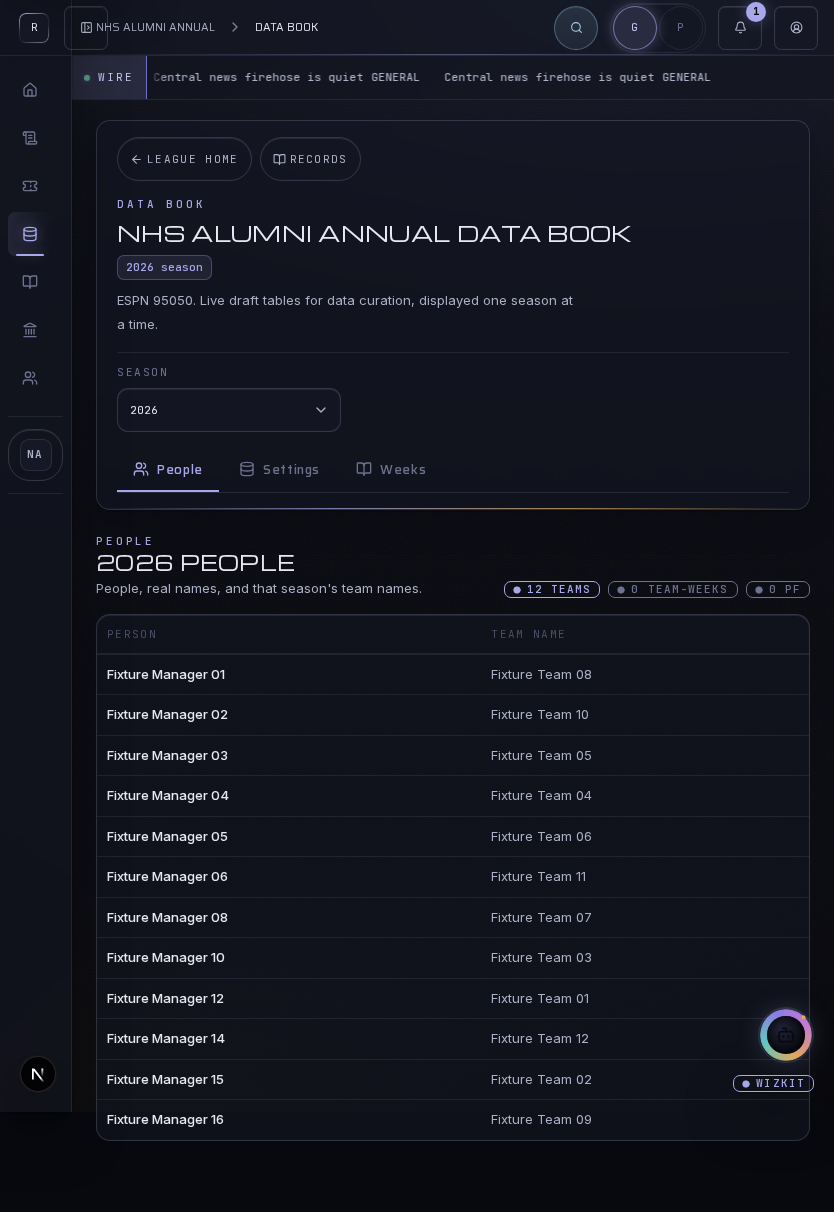
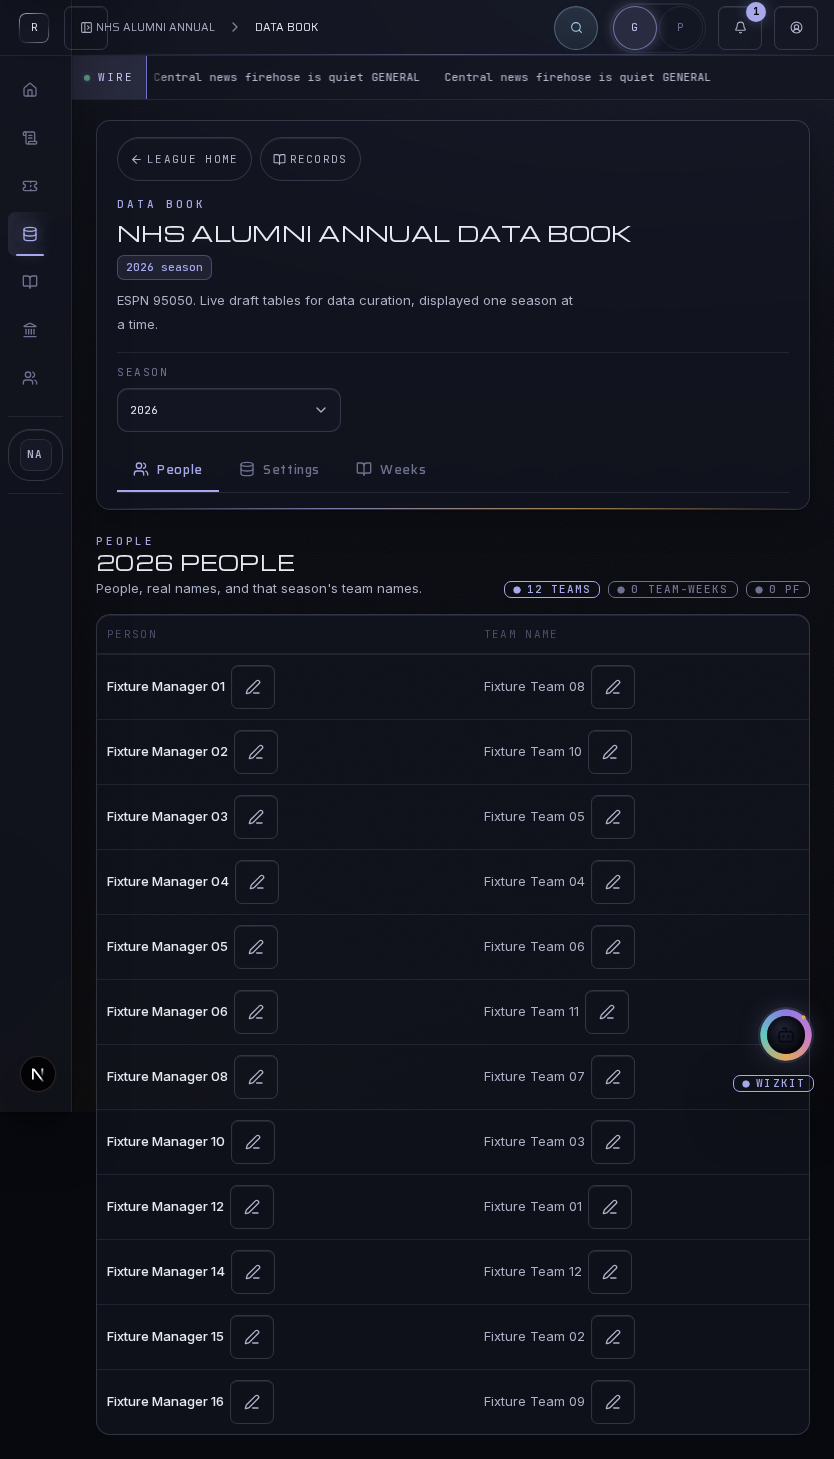
[T6] Document editable Data Book handoff

diff --git a/e2e/screenshots.spec.ts b/e2e/screenshots.spec.ts
@@ -66,19 +66,37 @@ async function shootDataBookScopePrompt(
     /* some pages keep a live connection open; screenshot anyway */
   }
   await page.waitForTimeout(900);
-  await page
-    .locator('button[aria-label^="Edit real name"]')
+  const editButton = page
+    .locator('button[aria-label^="Edit real name"]:visible')
+    .first();
+  await editButton.waitFor({ timeout: 15_000 });
+  const confirmButton = page
+    .locator('button[aria-label^="Confirm real name"]:visible')
+    .first();
+  for (let attempt = 0; attempt < 5; attempt += 1) {
+    await editButton.evaluate((button: HTMLElement) => button.click());
+    try {
+      await confirmButton.waitFor({ timeout: 2_000 });
+      break;
+    } catch {
+      await page.waitForTimeout(500);
+    }
+  }
+  await confirmButton.waitFor({ timeout: 15_000 });
+  const editForm = page
+    .locator("form")
+    .filter({
+      has: page.locator('button[aria-label^="Confirm real name"]:visible'),
+    })
+    .first();
+  await editForm
+    .locator("input")
     .first()
-    .click({ timeout: 15_000 });
+    .fill("Screenshot Steward", { timeout: 15_000 });
+  await confirmButton.evaluate((button: HTMLElement) => button.click());
   await page
-    .getByLabel(/real name for/i)
-    .first()
-    .fill("Screenshot Steward");
-  await page
-    .getByRole("button", { name: /Confirm real name for/i })
-    .first()
-    .click();
-  await page.getByRole("dialog", { name: "Apply data edit" }).waitFor();
+    .getByRole("dialog", { name: "Apply data edit" })
+    .waitFor({ timeout: 15_000 });
 
   const dir = path.join(OUT, vp);
   fs.mkdirSync(dir, { recursive: true });

diff --git a/.orchestration/handoff/T6.md b/.orchestration/handoff/T6.md
@@ -1,0 +1,97 @@
+# T6 Handoff - Editable Data Book Cells + Scope Prompt
+
+## What T6 Built
+- Extended the existing `/leagues/[leagueId]/data` Data Book view; no parallel view or extra destination was added.
+- Added steward-level editable dimension cells:
+  - People grid: `person.canonical_name` real name.
+  - People grid: `team_season.team_name` for the selected season row.
+  - Weeks grid: team name where it appears in the team cell.
+- Added the required scope prompt after inline confirmation:
+  - real name default: `all_years`.
+  - team name default: `this_year_only`.
+  - both are overridable.
+- Submits edits to `POST /api/leagues/[leagueId]/curation/edits` with the selected `scope`; includes `season` only for
+  `this_year_only`.
+- Successful edits update the local Data Book draft state immediately and mark affected editable cells with a small
+  `Draft` pill plus a compact draft notice. They do not save checkpoints, push snapshots, or affect Records.
+- Non-stewards still load the Data Book, but receive no edit buttons or inline edit forms.
+
+## Code Locations
+- Data Book route permission threading:
+  - `src/app/leagues/[leagueId]/data/page.tsx`
+- Data Book read model IDs used by editable cells:
+  - `src/app/leagues/[leagueId]/data/data-book-data.ts`
+- Editable UI + scope dialog:
+  - `src/app/leagues/[leagueId]/data/data-book-view.tsx`
+- Tests:
+  - `src/app/leagues/[leagueId]/data/data-book-view.test.tsx`
+  - `src/app/api/leagues/[leagueId]/curation/edits/route.test.ts`
+  - `src/stats/curated-state.test.ts`
+- Screenshot harness:
+  - `e2e/screenshots.spec.ts`
+
+## Permission Model
+- The page still requires only `minRole: "member"` so members can read the Data Book.
+- `DataBookView` receives `canEditData` from the server page.
+- Current UI edit access is granted to `commissioner`, `league_admin`, and `data_steward`, matching the existing
+  guard ranking where `/curation/edits` requires `minRole: "data_steward"`.
+- The API remains the enforcement boundary.
+
+## UI Flow
+1. Steward clicks a cell edit icon.
+2. The cell becomes an inline input with confirm/cancel icon buttons.
+3. Confirm opens the shared `Dialog` scope prompt.
+4. Steward keeps or changes the `Select` scope, optionally enters a reason, then applies the draft edit.
+5. The local Data Book state updates from the returned `affectedTargetIds` and `scope`.
+
+Shared primitives used: `Button`, `Dialog`, `Field`, `Input`, `Select`, `StatusPill`, and existing `DataTable` /
+`DataCardTable` responsive behavior.
+
+## API Payload Shape
+Real-name all-years default:
+```json
+{
+  "editClass": "cosmetic",
+  "field": "canonical_name",
+  "reason": "Corrected real name from Data Book",
+  "scope": "all_years",
+  "targetId": "<person.id>",
+  "targetKind": "person",
+  "value": "Corrected Name"
+}
+```
+
+Team-name this-year default:
+```json
+{
+  "editClass": "cosmetic",
+  "field": "team_name",
+  "reason": "Corrected team name from Data Book",
+  "scope": "this_year_only",
+  "season": 2026,
+  "targetId": "<team_season.id>",
+  "targetKind": "team_season",
+  "value": "Corrected Team"
+}
+```
+
+## Tests Added
+- Real-name scope prompt defaults to all-years, posts the expected payload, omits `season`, renders the edited value,
+  and shows Draft state.
+- Team-name scope prompt defaults to this-year-only, posts `scope` plus selected `season`, and renders the edit.
+- Team-name override to all-years posts without `season` and updates all affected team seasons locally.
+- Non-steward Data Book renders read-only with no edit affordances.
+- Route test verifies explicit this-year `scope`/`season` reaches `applyCuratedDataEdit`.
+- DB-backed curated-state test verifies ledger `beforeValue` / `afterValue` / `scope` for a scoped Data Book-style edit.
+
+## Screenshot Harness
+- Existing `17-data-book` screenshots still capture the normal route.
+- New `17-data-book-scope-prompt` screenshots open the real-name inline edit and the scope dialog before capture.
+
+## Gotchas For T7/T8
+- T7 should build the ledger/change-log as a separate destination. Do not add the feed to the Data Book.
+- T8 can hook into the same Data Book route for save/push controls, but T6 does not create checkpoints or pushes.
+- Data Book local state is optimistic only after the edit API succeeds. A fresh navigation reloads from draft tables.
+- `DataTable` renders desktop and mobile markup in the DOM during tests; duplicate edit buttons/text are expected.
+- For `person.canonical_name` + `this_year_only`, T4 may split the person and return a new person id in
+  `affectedTargetIds`; T6 updates local rows using both returned person ids and team-season ids.

diff --git a/docs/PROGRESS.md b/docs/PROGRESS.md
@@ -1,14 +1,20 @@
 # Rumbledore v2 — Master State & Handoff
 
 **This is the single source of truth.** Any agent/model/tool continuing this work reads this first.
-Keep it current. Last updated: 2026-06-22 — **Data Foundation complete through T5 on `ws/t5-data-book`**:
-T5 added the read-only Data Book as its own league navigation destination at `/leagues/[leagueId]/data`. The page
-uses the league-feed masthead pattern (`PublicationMasthead` with `TabLinks` at the bottom), a shared AUSPEX `Select`
-season picker, and responsive DataTable/card fallbacks for the three live draft grains: People, per-season Settings
-and summary, and Week-by-week facts including one-sided byes and stored matchup spans. T5 reads the live substrate
-tables (`persons`, `identity_mapping`, `team_season`, `league_season_settings`, `season_statistics`,
-`weekly_statistics`, `fantasy_matchups`) and deliberately does **not** read `composeCanonicalSnapshot`, which remains
-T9's record-book input. Prior T4 state: T4 added the curated-state service/API layer: every save is an append-only
+Keep it current. Last updated: 2026-06-22 — **Data Foundation complete through T6 on `ws/t6-editable-cells`**:
+T6 extended the existing Data Book at `/leagues/[leagueId]/data` with permission-gated editable dimension cells for
+person real names and team-season team names. Steward-level users edit inline, then confirm in a shared AUSPEX scope
+dialog defaulted to all-years for real names and this-year-only for team names; the chosen scope is posted to
+`POST /api/leagues/[leagueId]/curation/edits` with `season` for this-year-only edits. Successful edits update the
+Data Book draft view immediately and mark affected cells as Draft; they still do **not** affect the Record Book until
+future save/push work. Non-stewards see the same Data Book read-only. Prior T5 state: the Data Book is its own league
+navigation destination, uses the league-feed masthead pattern (`PublicationMasthead` with `TabLinks` at the bottom),
+a shared AUSPEX `Select` season picker, and responsive DataTable/card fallbacks for the three live draft grains:
+People, per-season Settings and summary, and Week-by-week facts including one-sided byes and stored matchup spans.
+It reads the live substrate tables (`persons`, `identity_mapping`, `team_season`, `league_season_settings`,
+`season_statistics`, `weekly_statistics`, `fantasy_matchups`) and deliberately does **not** read
+`composeCanonicalSnapshot`, which remains T9's record-book input. Prior T4 state: T4 added the curated-state
+service/API layer: every save is an append-only
 whole-league checkpoint anchored by a
 `league_data_edits` marker; every push is an append-only per-season pushed version; `composeCanonicalSnapshot(leagueId)`
 returns the composition of each season's latest pushed version so pushing 2012 preserves 2011 and every other
@@ -137,15 +143,25 @@ All planned product scope (P0–P5) and the 2026-06-16 audit-hardening Scope are
 - **Data Foundation T5 delivered (2026-06-22):** the Data Book read view now exists as a separate league destination
   (`/leagues/[leagueId]/data`) and shell nav peer. It renders one selected season at a time with a year dropdown and
   in-masthead grain tabs for People, Settings, and Weeks. Tables use AUSPEX DataTable/mobile-card treatment and show
-  plain empty states for clean leagues. T6 owns editable cells and edit-scope prompts on top of this read view.
+  plain empty states for clean leagues. T6 later extended this read view with editable dimension cells and scope
+  prompts.
+- **Data Foundation T6 delivered (2026-06-22):** the Data Book People grid now exposes steward-level inline edits
+  for person real names and team-season team names, and Weeks exposes team-name edits where team names appear. The
+  scope prompt uses the shared Dialog/Field/Input/Select/Button primitives, defaults real names to all-years and team
+  names to this-year-only, always allows override, and calls `/curation/edits` with `scope` plus `season` for
+  this-year-only edits. Successful edits update the draft Data Book state and mark affected cells as Draft; ordinary
+  members see no edit affordance. Ledger before/after/scope remains written by `applyCuratedDataEdit`.
 - **Real & verified:** per-league RLS isolation (binding non-superuser canary), Better Auth, ESPN/Sleeper/Yahoo ingestion (vs the 95050 fixture), stats/records/identity, AI content pipeline, betting engine + rolling-min bankroll + central arena, realtime + push.
 - **Mocked (drop-in keys later):** Anthropic, The Odds API, SportsDataIO, Tavily, Voyage, Browserbase. Real Browserbase cookie-capture is the one un-wired seam (ESPN onboarding runs fixture-backed by default).
 - **Resolved review bugs:** AI near-dup now uses a league/content-type/model-filtered pgvector nearest-neighbor query (`f380946`); postseason and championship stats derive from season settings/finals with low-confidence integrity failures (`dfa85a9`, `cd6cbe2`); Sleeper co-owner overlap no longer merges distinct same-season team slots (`485e467`); invite tokens persist only hashes (`7a92dfa`); bet placement takes the bankroll-week lock before balance checks (`22a4333`).
 - **Hardening pass delivered:** live ingestion calendar cadence, schedule-backed NFL calendar fallback, Anthropic LLM judge gate, lore steward tiebreak constraints, DB role privilege health, PWA league-page cache isolation, transaction/waiver content emitters, records-catalog fixture coverage, and spend-guard fallback coverage are all landed and tested (`0a2f543`, `43a030b`, `4cc4a5b`, `aa80043`, `8cd3b76`, `e208349`, `060aab8`, `e0cf000`).
-- **Next:** T6 can add editable cells and edit-scope prompts to the Data Book read UI, T8 can wire save/push controls
-  to the curation APIs, and T9 can re-point record-book reads to `composeCanonicalSnapshot`.
+- **Next:** T7 can build the separate Edit Ledger / Change Log destination, T8 can wire save/push controls to the
+  curation APIs, and T9 can re-point record-book reads to `composeCanonicalSnapshot`.
 
 ## 8. Recent (loop log; newest first)
+- 2026-06-22: Data Foundation T6 landed — steward-level Data Book dimension cells are editable inline, scope
+  confirmation is defaulted/overridable, edits post to `/curation/edits` with `scope`/`season`, draft cells update
+  immediately, and non-stewards remain read-only.
 - 2026-06-22: Data Foundation T5 landed — `/leagues/[leagueId]/data` now renders the read-only Data Book with
   People, Settings, and Weeks grains, year dropdown season switching, shell navigation, component interaction tests,
   and screenshot harness coverage.

diff --git a/docs/DATA-FOUNDATION-PLAN.md b/docs/DATA-FOUNDATION-PLAN.md
@@ -151,6 +151,13 @@ A task is not "done" until all seven hold:
 - *Goal:* make cells editable (permissioned); the **scope prompt** on dimension edits (smart-defaulted); every edit →
   `league_data_edits` with before/after. No record-book effect yet (saved ≠ pushed).
 - *Tests + screenshots.*
+- *T6 completion note (2026-06-22):* ✅ Completed on `ws/t6-editable-cells` by CoralBridge. Extended the existing
+  Data Book view rather than forking it: People rows now allow steward-level inline edits for `person.canonical_name`
+  and `team_season.team_name`, Weeks exposes team-name edits where team names appear, and non-stewards remain
+  read-only. The scope prompt uses shared AUSPEX dialog/input/select/button primitives, smart-defaults real names to
+  all-years and team names to this-year-only, lets the steward override, and posts to `/curation/edits` with the chosen
+  `scope` plus `season` for this-year-only. The draft Data Book updates locally and marks affected cells as Draft;
+  save/push controls and ledger browsing remain T8/T7 scope.
 
 **T7 — Edit Ledger / Change Log** (depends: T6) — **separate nav destination**
 - *Goal:* a chronological feed of saves + pushes (single-line entries); click → **red/green before/after diff**.
@@ -184,7 +191,7 @@ consumed by AI writers + league enrichment. *Can parallelize with late Phase 2 (
 | T3 byes + span | Codex | ✅ complete |
 | T4 curated-state model | TanElm | ✅ complete |
 | T5 Data Book (read) | NobleSnow | ✅ complete |
-| T6 editable cells + scope | — | ☐ |
+| T6 editable cells + scope | CoralBridge | ✅ complete |
 | T7 Edit Ledger | — | ☐ |
 | T8 save/push state machine | — | ☐ |
 | T9 record-book re-point | — | ☐ |